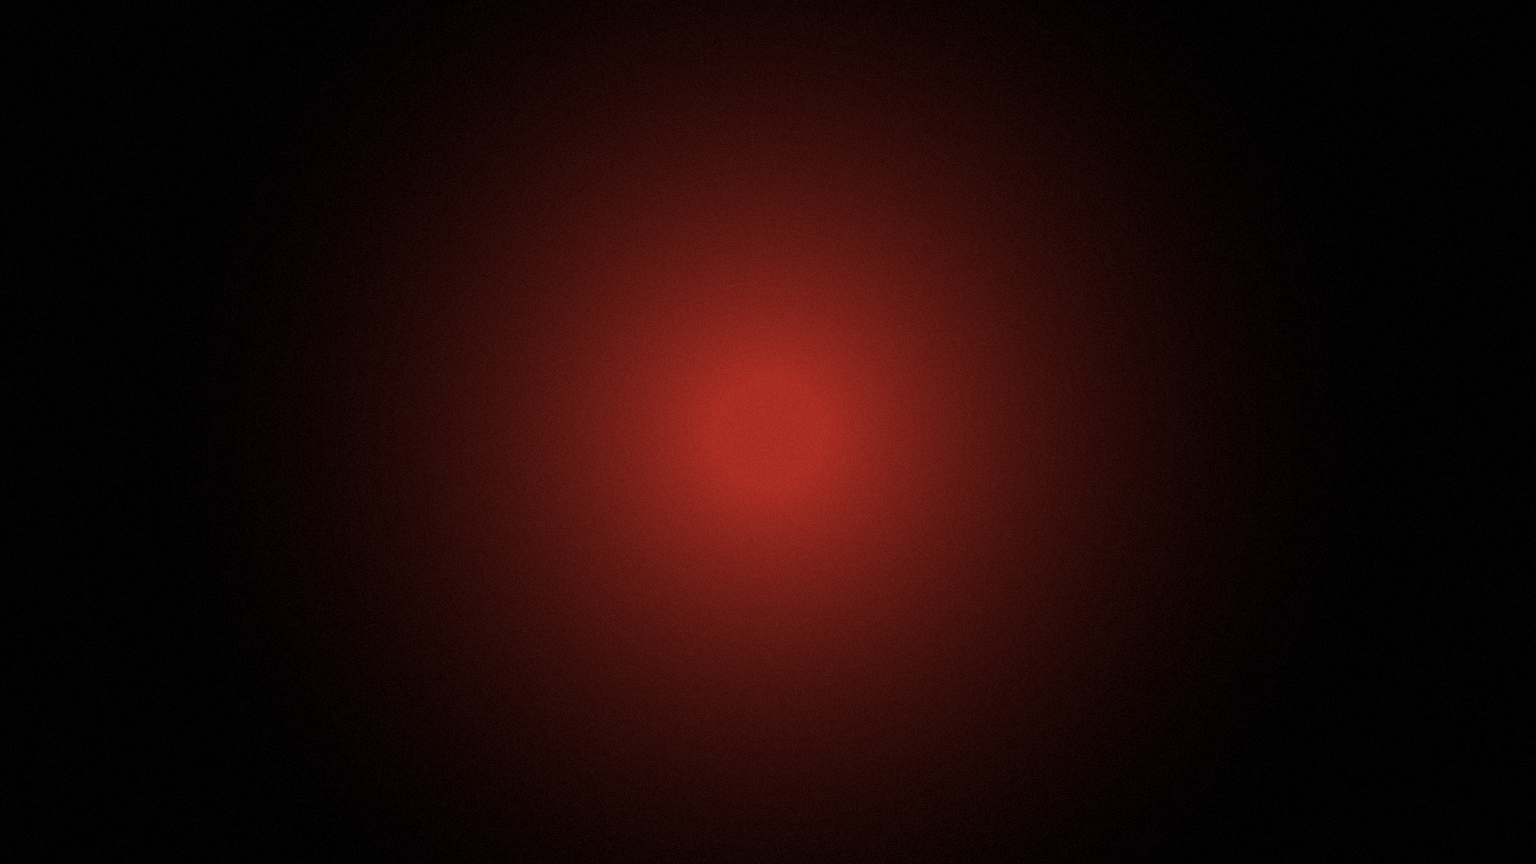
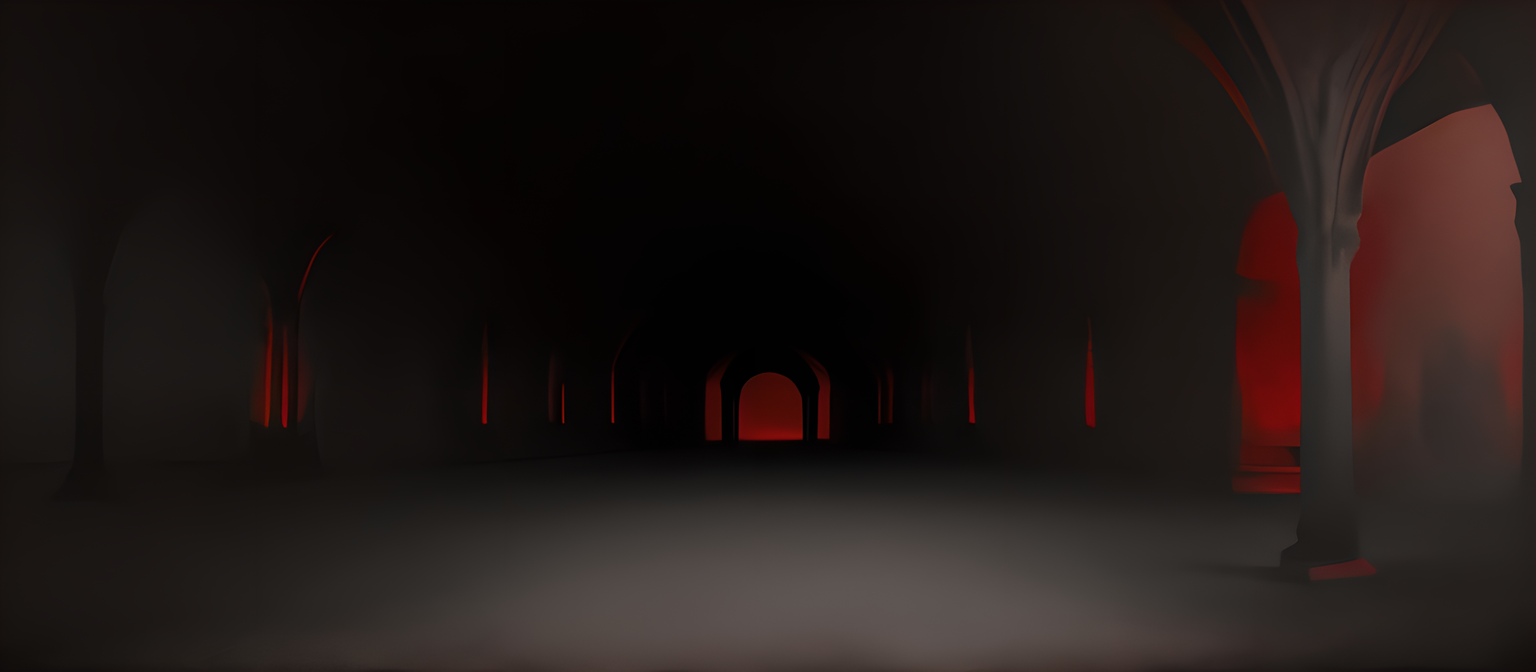
Арт: генерація через Forge по мережі + нова глибина Ниці
tools/forge.py говорить з Forge на сусідній машині через його HTTP-API.
Головне тут не зручність, а те, що замок стилю тепер виконується КОДОМ:
проміт складається за §5 STYLE_PROMPT.txt, тож забути хвіст стилю вже
неможливо. Сіди зберігаються поруч із картинками — без них вдалу
генерацію не повторити.

tools/sheet.py складає варіанти в один аркуш: коли їх шість, дивитися по
одній означає втратити те, заради чого їх шість.

Замість безформної червоної плями в глибині Ниці тепер далека зала з
освітленими арками. Тінт шару ПОНАД одиницю навмисно: CanvasModulate
гасить його до натяку, множник повертає зʼїдені відсотки.

Дорогою знайдено дві помилки промітів, обидві записані в код коментарями:
«red glow» тягне DreamShaper у вулкан, а задовгий негатив ламає SD1.5 —
замість печери починають вилазити коти й бороди.

diff --git a/tools/forge.py b/tools/forge.py
@@ -1,0 +1,291 @@
+"""Генерація арту через Forge, який крутиться на іншій машині.
+
+Forge має HTTP-API. Це означає, що не треба ходити в браузер, набирати
+проміт руками й перекладати файли між теками: генерація стає такою самою
+командою, як тест чи збірка.
+
+Головне, заради чого цей файл існує: **замок стилю виконується кодом**.
+У `art_src/STYLE_PROMPT.txt` записано, що хвіст стилю додається до КОЖНОЇ
+генерації без винятку. Поки це робилося руками, забути його було питанням
+часу. Тепер забути неможливо — проміт складається за §5 замка тут, а я
+описую тільки зміст.
+
+Приклади:
+
+    python tools/forge.py --list
+    python tools/forge.py nyts-far
+    python tools/forge.py nyts-far --count 6 --seed 1000
+    python tools/forge.py --subject "a clay jug on a table" \
+        --world plyn --light object --name jug
+
+Результат лягає в `art_src/raw/<дата>/`. Ця тека поза git навмисно:
+сирі генерації важкі й одноразові, у репозиторій іде тільки відібране.
+"""
+import argparse
+import base64
+import datetime
+import json
+import os
+import sys
+import urllib.error
+import urllib.request
+
+ROOT = os.path.dirname(os.path.dirname(os.path.abspath(__file__)))
+RAW = os.path.join(ROOT, "art_src", "raw")
+
+# Машина з відеокартою. Forge має бути запущений з `--api --listen`,
+# інакше він слухає тільки сам себе й ззовні недоступний.
+HOST = os.environ.get("TRYZNA_FORGE", "http://smd:7860")
+
+
+# --- Замок стилю (art_src/STYLE_PROMPT.txt) ----------------------------------
+# Дослівно з файлу. Якщо міняється там — міняється тут, і навпаки; розходження
+# двох копій гірше за відсутність однієї.
+
+STYLE_TAIL = (
+    "painterly digital illustration, hand-painted texture, visible brush strokes, "
+    "soft edges, no hard outlines, muted desaturated palette, subtle film grain, "
+    "clean readable silhouette"
+)
+
+NEGATIVE = (
+    "anime, manga, 3D render, CGI, photorealistic, neon colours, "
+    "glossy plastic surfaces, hard black outlines, cel shading, lens flare, "
+    "text, letters, watermark, signature, logo, UI elements, modern objects, "
+    # Люди пролазять навіть у порожні печери — модель любить ставити фігурку
+    # «для масштабу». Нам вона зайва: у кадрі має бути тільки гравець.
+    "person, people, human figure, silhouette of a man, character, creature, "
+    # DreamShaper любить лишати незафарбований папір по краях і виходить
+    # «мазок на аркуші», а не кадр. Міша це вже забракував, тож глушимо.
+    "white border, paper texture, sketchbook page, unpainted margin, "
+    "canvas edge, framed picture, vignette, torn paper"
+)
+
+PALETTE = {
+    "plyn": (
+        "muted earth palette: moss green, ochre, weathered grey stone, "
+        "faded warm timber; damp autumn, lived-in, quiet"
+    ),
+    "nyts": (
+        "near-monochrome: charcoal, ash grey, soot black; "
+        "exactly one accent colour, dull dried-blood red; "
+        "airless, still, flat, like a shadow theatre"
+    ),
+    "vysi": (
+        "aged parchment and pale gold, brown ink linework, "
+        "surrounded by flat void black; like an old drawn map"
+    ),
+}
+
+# §3 замка: об'єкти світить рушій, тому на картинці світло пласке;
+# дальні фони рушій майже не чіпає, тому світло можна запікати.
+LIGHT = {
+    "object": (
+        "flat even ambient lighting, no cast shadows, no rim light, "
+        "no strong highlights, isolated on a plain flat background"
+    ),
+    "backdrop": "soft diffuse light source, gentle atmospheric haze",
+}
+
+
+def compose(subject: str, world: str, light: str) -> str:
+    """Складає проміт за §5 замка: спершу зміст, потім стиль.
+
+    Порядок не косметичний: генератор важить перші слова більше за останні,
+    тому зміст мусить іти першим, інакше вийде красивий стиль ні про що.
+    """
+    return ", ".join([subject, PALETTE[world], LIGHT[light], STYLE_TAIL])
+
+
+# --- Замовлення --------------------------------------------------------------
+# Іменовані завдання. Тримаються тут, а не в голові, щоб генерацію можна було
+# ПОВТОРИТИ через місяць і отримати те саме.
+
+JOBS: dict[str, dict] = {
+    # Найдальший шар Ниці. Головне про нього: власної перспективи він мати
+    # НЕ повинен. Глибину в кадрі дають стовпи, що стоять попереду; якщо
+    # задник теж почне тікати в точку сходу, два ракурси битимуться.
+    # Тому — далека стіна темряви й заграва, а не тунель.
+    "nyts-far": {
+        "subject": (
+            "a vast wall of darkness deep underground, distant cavern far away, "
+            "distant fires deep in the centre far away, dull red glow on black rock, "
+            "an enormous underground hall, flat frontal view, "
+            "no tunnel, no vanishing point, no perspective lines, "
+            "wide horizontal composition, image fills the entire frame edge to edge"
+        ),
+        "world": "nyts",
+        "light": "backdrop",
+        "size": (1024, 448),
+        "cfg": 6.0,
+        "steps": 30,
+        # «Заграва» дуже легко читається як лава: варто сказати red glow —
+        # і DreamShaper малює вулкан. Наш червоний — засохлої крові, холодний
+        # і мертвий, тож вогонь глушимо окремо, саме для цього замовлення.
+        # Коротко і прицільно. Довгий негатив SD1.5 не витримує: він починає
+        # воювати з промітом і вигадувати сюжети замість пейзажу. Гасимо рівно
+        # дві помилки — лаву й відкрите небо, решту витягне тонування в рушії.
+        "extra_negative": "lava river, molten liquid, volcano, open sky, animal, face",
+    },
+}
+
+
+# --- Розмова з Forge ---------------------------------------------------------
+
+
+def _post(path: str, payload: dict, timeout: int = 900) -> dict:
+    req = urllib.request.Request(
+        HOST + path,
+        data=json.dumps(payload).encode("utf-8"),
+        headers={"Content-Type": "application/json"},
+    )
+    with urllib.request.urlopen(req, timeout=timeout) as resp:
+        return json.loads(resp.read().decode("utf-8"))
+
+
+def generate(
+    subject: str,
+    world: str,
+    light: str,
+    name: str,
+    count: int = 4,
+    size: tuple[int, int] = (768, 512),
+    steps: int = 28,
+    cfg: float = 6.0,
+    seed: int = -1,
+    extra_negative: str = "",
+) -> list[str]:
+    prompt = compose(subject, world, light)
+    print("проміт:\n  " + prompt.replace(", ", ",\n  "))
+    print()
+
+    payload = {
+        "prompt": prompt,
+        "negative_prompt": NEGATIVE + (", " + extra_negative if extra_negative else ""),
+        "width": size[0],
+        "height": size[1],
+        "steps": steps,
+        "cfg_scale": cfg,
+        "sampler_name": "DPM++ 2M",
+        "scheduler": "Karras",
+        "batch_size": 1,
+        "n_iter": count,
+        "seed": seed,
+    }
+
+    out_dir = os.path.join(RAW, datetime.date.today().isoformat())
+    os.makedirs(out_dir, exist_ok=True)
+
+    print("генерую %d шт. %dx%d на %s…" % (count, size[0], size[1], HOST))
+    try:
+        result = _post("/sdapi/v1/txt2img", payload)
+    except urllib.error.URLError as exc:
+        sys.exit(
+            "Forge не відповів (%s).\n"
+            "Перевір, що він запущений з --api --listen і що адреса %s правильна."
+            % (exc, HOST)
+        )
+
+    # Forge кладе сюди справжні параметри генерації, зокрема РОЗГОРНУТІ сіди.
+    # Без них повторити вдалу картинку неможливо, тому пишемо їх поруч.
+    info = json.loads(result.get("info", "{}"))
+    seeds = info.get("all_seeds") or [info.get("seed", -1)]
+
+    saved: list[str] = []
+    for i, b64 in enumerate(result["images"][:count]):
+        s = seeds[i] if i < len(seeds) else -1
+        path = os.path.join(out_dir, "%s-%02d-s%s.png" % (name, i + 1, s))
+        with open(path, "wb") as fh:
+            fh.write(base64.b64decode(b64.split(",", 1)[-1]))
+        saved.append(path)
+        print("  " + path)
+
+    with open(os.path.join(out_dir, name + ".txt"), "w", encoding="utf-8") as fh:
+        fh.write(prompt + "\n\n--- не хочемо ---\n" + payload["negative_prompt"] + "\n\n")
+        fh.write("сіди: %s\n" % seeds[:count])
+
+    return saved
+
+
+def upscale(path: str, scale: float = 2.0, model: str = "R-ESRGAN 4x+") -> str:
+    """Збільшує готову картинку тим самим Forge.
+
+    Потрібне тому, що SD1.5 добре малює приблизно до 1024 пікселів, а шари
+    фону в нас ширші. Домальовувати різницю генерацією ризиковано — на 6 ГБ
+    відеопамʼяті великий кадр просто не влізе, — а нейромережевий апскейл
+    робить це окремим дешевим проходом.
+    """
+    with open(path, "rb") as fh:
+        data = base64.b64encode(fh.read()).decode("ascii")
+
+    result = _post(
+        "/sdapi/v1/extra-single-image",
+        {
+            "image": data,
+            "upscaling_resize": scale,
+            "upscaler_1": model,
+            "resize_mode": 0,
+        },
+    )
+
+    root, ext = os.path.splitext(path)
+    out = "%s-x%g%s" % (root, scale, ext)
+    with open(out, "wb") as fh:
+        fh.write(base64.b64decode(result["image"].split(",", 1)[-1]))
+    print("збільшено ->", out)
+    return out
+
+
+def main() -> None:
+    ap = argparse.ArgumentParser(description="Генерація арту «Тризни» через Forge")
+    ap.add_argument("job", nargs="?", help="назва замовлення з JOBS")
+    ap.add_argument("--list", action="store_true", help="показати замовлення")
+    ap.add_argument("--subject", help="зміст картинки (замість замовлення)")
+    ap.add_argument("--world", choices=sorted(PALETTE), default="nyts")
+    ap.add_argument("--light", choices=sorted(LIGHT), default="backdrop")
+    ap.add_argument("--name", help="як назвати файли")
+    ap.add_argument("--count", type=int, default=4)
+    ap.add_argument("--size", help="ШИРИНАxВИСОТА, напр. 896x512")
+    ap.add_argument("--steps", type=int)
+    ap.add_argument("--cfg", type=float)
+    ap.add_argument("--seed", type=int, default=-1)
+    ap.add_argument("--upscale", metavar="ФАЙЛ", help="збільшити готову картинку")
+    ap.add_argument("--scale", type=float, default=2.0)
+    args = ap.parse_args()
+
+    if args.upscale:
+        upscale(args.upscale, args.scale)
+        return
+
+    if args.list:
+        for key, job in sorted(JOBS.items()):
+            print("%-14s %s…" % (key, job["subject"][:60]))
+        return
+
+    if args.job:
+        if args.job not in JOBS:
+            sys.exit("Немає такого замовлення: %s (--list покаже наявні)" % args.job)
+        job = dict(JOBS[args.job])
+        job.setdefault("name", args.job)
+    elif args.subject:
+        job = {
+            "subject": args.subject,
+            "world": args.world,
+            "light": args.light,
+            "name": args.name or "adhoc",
+        }
+    else:
+        sys.exit("Треба або назву замовлення, або --subject. --list покаже наявні.")
+
+    if args.size:
+        w, h = args.size.lower().split("x")
+        job["size"] = (int(w), int(h))
+    for key in ("steps", "cfg"):
+        if getattr(args, key) is not None:
+            job[key] = getattr(args, key)
+
+    generate(count=args.count, seed=args.seed, **job)
+
+
+if __name__ == "__main__":
+    main()

diff --git a/tools/sheet.py b/tools/sheet.py
@@ -1,0 +1,72 @@
+"""Складає кілька картинок в один аркуш, щоб дивитися їх разом.
+
+Коли генерацій чотири-вісім, відкривати їх по одній — це втрачати саме те,
+заради чого їх кілька: порівняння. Аркуш ставить їх поруч і підписує
+номерами, щоб можна було сказати «третя» й обидва розуміли, про яку мова.
+
+    python tools/sheet.py art_src/raw/2026-09-04/nyts-far-*.png
+    python tools/sheet.py <файли> --out builds/sheet.png --cols 2 --width 1400
+"""
+import argparse
+import glob
+import os
+
+from PIL import Image, ImageDraw
+
+ROOT = os.path.dirname(os.path.dirname(os.path.abspath(__file__)))
+
+PAD = 10
+LABEL = 26
+BG = (24, 24, 26)
+INK = (215, 215, 220)
+
+
+def main() -> None:
+    ap = argparse.ArgumentParser(description="Аркуш порівняння генерацій")
+    ap.add_argument("patterns", nargs="+", help="файли або маски")
+    ap.add_argument("--out", default=os.path.join(ROOT, "builds", "sheet.png"))
+    ap.add_argument("--cols", type=int, default=2)
+    ap.add_argument("--width", type=int, default=1400, help="ширина всього аркуша")
+    args = ap.parse_args()
+
+    paths: list[str] = []
+    for pattern in args.patterns:
+        paths.extend(sorted(glob.glob(pattern)) or [pattern])
+    paths = [p for p in paths if os.path.isfile(p)]
+    if not paths:
+        raise SystemExit("Нічого не знайдено.")
+
+    cols = min(args.cols, len(paths))
+    rows = (len(paths) + cols - 1) // cols
+    cell_w = (args.width - PAD * (cols + 1)) // cols
+
+    images = [Image.open(p).convert("RGB") for p in paths]
+    # Висота комірки — по найвищій картинці, щоб рядки не «їздили».
+    cell_h = max(int(im.height * cell_w / im.width) for im in images)
+
+    sheet = Image.new(
+        "RGB",
+        (args.width, PAD + rows * (cell_h + LABEL + PAD)),
+        BG,
+    )
+    draw = ImageDraw.Draw(sheet)
+
+    for i, (path, im) in enumerate(zip(paths, images)):
+        col, row = i % cols, i // cols
+        x = PAD + col * (cell_w + PAD)
+        y = PAD + row * (cell_h + LABEL + PAD)
+        thumb = im.resize((cell_w, int(im.height * cell_w / im.width)), Image.LANCZOS)
+        sheet.paste(thumb, (x, y))
+        draw.text(
+            (x + 4, y + thumb.height + 5),
+            "%d.  %s" % (i + 1, os.path.basename(path)),
+            fill=INK,
+        )
+
+    os.makedirs(os.path.dirname(args.out), exist_ok=True)
+    sheet.save(args.out)
+    print("аркуш ->", args.out, sheet.size)
+
+
+if __name__ == "__main__":
+    main()
